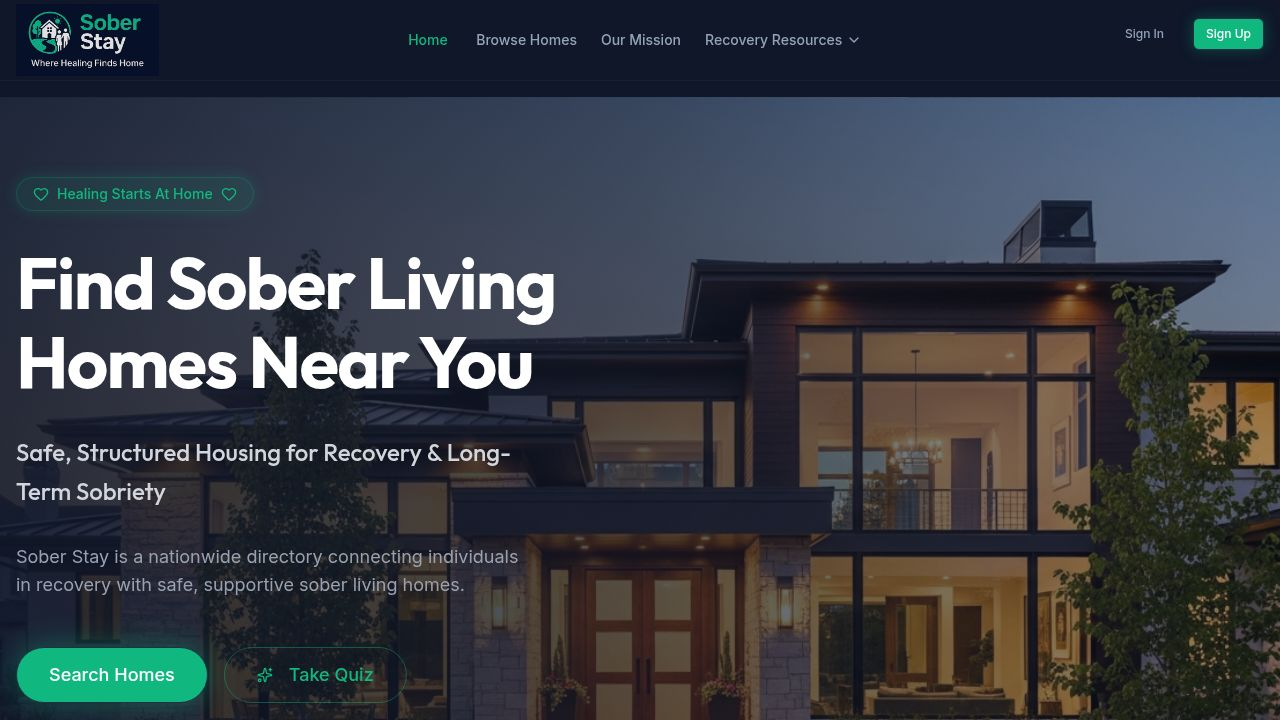
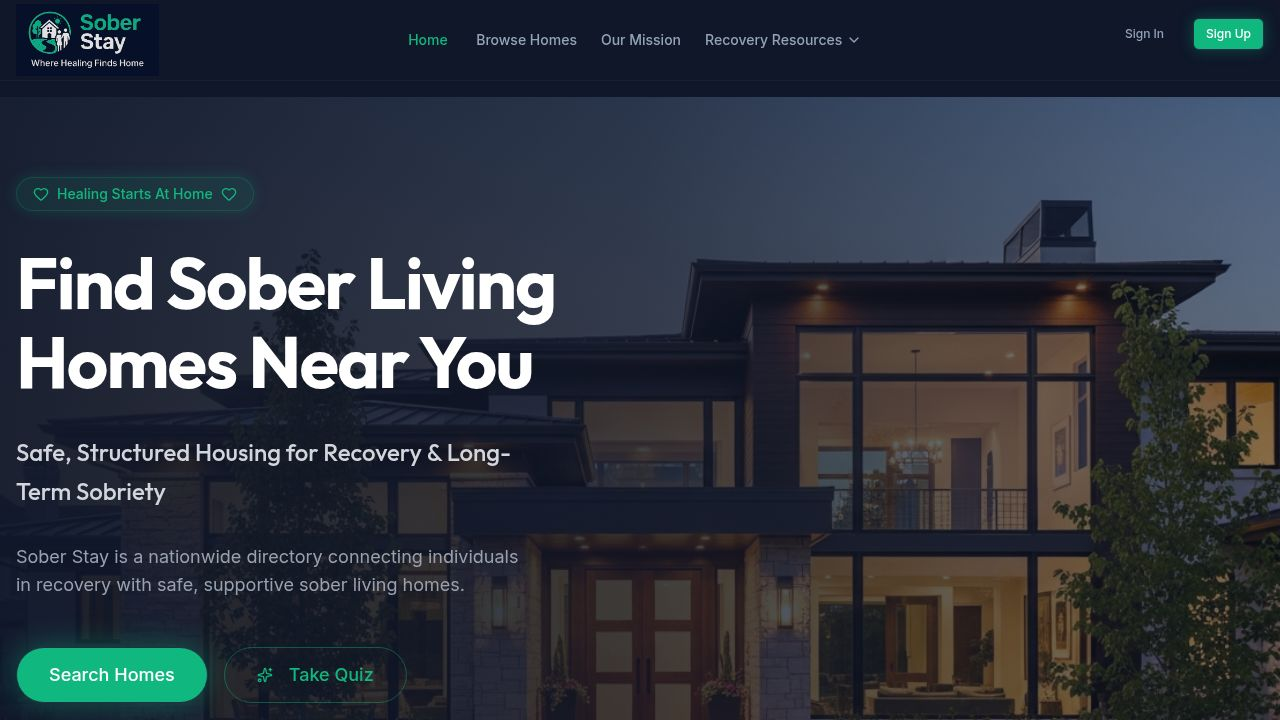
Improve homepage responsiveness and image display on mobile devices
Adjusted hero section image handling from CSS background to `<img>` tag, optimized image display with `object-cover` and `object-center`, refined gradient overlays, and updated heading sizes for better mobile readability across various homepage sections.

Replit-Commit-Author: Agent
Replit-Commit-Session-Id: d8b34886-b045-4bce-8c2d-c449d7f5da0f
Replit-Commit-Checkpoint-Type: full_checkpoint
Replit-Commit-Event-Id: ce5ae839-1d03-4781-9e5e-f15aefb3072f
Replit-Commit-Screenshot-Url: https://storage.googleapis.com/screenshot-production-us-central1/81e67262-816b-4fb6-81d9-b08eca5409c7/d8b34886-b045-4bce-8c2d-c449d7f5da0f/u6yB59Y

diff --git a/client/src/pages/home.tsx b/client/src/pages/home.tsx
@@ -51,16 +51,13 @@ export default function Home() {
   return (
     <Layout>
       {/* Hero Section with Home Image */}
-      <section className="relative min-h-[80vh] flex items-center justify-center overflow-hidden">
-        <div 
-          className="absolute inset-0 z-0"
-          style={{
-            backgroundImage: `url(${heroBg})`,
-            backgroundSize: 'cover',
-            backgroundPosition: 'center'
-          }}
+      <section className="relative min-h-[70vh] md:min-h-[80vh] flex items-center justify-center overflow-hidden">
+        <img 
+          src={heroBg}
+          alt=""
+          className="absolute inset-0 w-full h-full object-cover object-center z-0"
         />
-        <div className="absolute inset-0 bg-gradient-to-r from-background/90 via-background/70 to-background/40 z-0" />
+        <div className="absolute inset-0 bg-gradient-to-b md:bg-gradient-to-r from-background/95 via-background/80 to-background/50 z-0" />
         
         <div className="container relative z-10 px-4 py-20 text-left">
           <div className="space-y-8 max-w-2xl animate-in slide-in-from-bottom-8 duration-700 fade-in">
@@ -70,7 +67,7 @@ export default function Home() {
               <Heart className="w-4 h-4" />
             </div>
             
-            <h1 className="text-5xl md:text-7xl font-heading font-bold tracking-tight text-white leading-[1.1]">
+            <h1 className="text-4xl sm:text-5xl md:text-7xl font-heading font-bold tracking-tight text-white leading-[1.1]">
               Find Sober Living Homes Near You
             </h1>
             
@@ -153,7 +150,7 @@ export default function Home() {
       <section className="relative py-12 bg-background overflow-hidden">
         {/* Background Path Visual */}
         <div className="absolute inset-0 opacity-20 pointer-events-none">
-           <img src={pathBg} loading="lazy" className="w-full h-full object-cover" alt="" />
+           <img src={pathBg} loading="lazy" className="absolute inset-0 w-full h-full object-cover object-center" alt="" />
            <div className="absolute inset-0 bg-gradient-to-b from-background via-transparent to-background" />
         </div>
 
@@ -199,17 +196,17 @@ export default function Home() {
 
       {/* For Tenants & Providers Split */}
       <section className="py-0 bg-background">
-        <div className="grid lg:grid-cols-2 min-h-[800px]">
+        <div className="grid lg:grid-cols-2 min-h-[600px] lg:min-h-[800px]">
           
           {/* Tenants Side */}
-          <div className="relative group overflow-hidden min-h-[500px] lg:min-h-full">
+          <div className="relative group overflow-hidden min-h-[600px] lg:min-h-full">
             <div className="absolute inset-0">
-              <img src={tenantBg} loading="lazy" className="w-full h-full object-cover" alt="" />
+              <img src={tenantBg} loading="lazy" className="absolute inset-0 w-full h-full object-cover object-center" alt="" />
               <div className="absolute inset-0 bg-blue-950/80 mix-blend-multiply" />
               <div className="absolute inset-0 bg-gradient-to-t from-background via-transparent to-transparent opacity-90" />
             </div>
             
-            <div className="relative z-10 h-full flex flex-col justify-center p-12 lg:p-20 max-w-2xl mx-auto lg:mx-0 lg:ml-auto">
+            <div className="relative z-10 h-full flex flex-col justify-center p-8 md:p-12 lg:p-20 max-w-2xl mx-auto lg:mx-0 lg:ml-auto">
               <div className="inline-flex items-center gap-2 px-3 py-1 rounded-full bg-blue-400/10 border border-blue-400/20 text-blue-300 text-sm font-medium mb-6 w-fit">
                 <Sparkles className="w-4 h-4" /> For Tenants
               </div>
@@ -239,14 +236,14 @@ export default function Home() {
           </div>
 
           {/* Providers Side */}
-          <div className="relative group overflow-hidden min-h-[500px] lg:min-h-full border-t lg:border-t-0 lg:border-l border-white/10">
+          <div className="relative group overflow-hidden min-h-[600px] lg:min-h-full border-t lg:border-t-0 lg:border-l border-white/10">
             <div className="absolute inset-0">
-              <img src={providerBg} loading="lazy" className="w-full h-full object-cover" alt="" />
+              <img src={providerBg} loading="lazy" className="absolute inset-0 w-full h-full object-cover object-center" alt="" />
               <div className="absolute inset-0 bg-emerald-950/80 mix-blend-multiply" />
               <div className="absolute inset-0 bg-gradient-to-t from-background via-transparent to-transparent opacity-90" />
             </div>
             
-            <div className="relative z-10 h-full flex flex-col justify-center p-12 lg:p-20 max-w-2xl mx-auto lg:mx-0 lg:mr-auto">
+            <div className="relative z-10 h-full flex flex-col justify-center p-8 md:p-12 lg:p-20 max-w-2xl mx-auto lg:mx-0 lg:mr-auto">
               <div className="inline-flex items-center gap-2 px-3 py-1 rounded-full bg-emerald-400/10 border border-emerald-400/20 text-emerald-300 text-sm font-medium mb-6 w-fit">
                 <Building className="w-4 h-4" /> For Providers
               </div>
